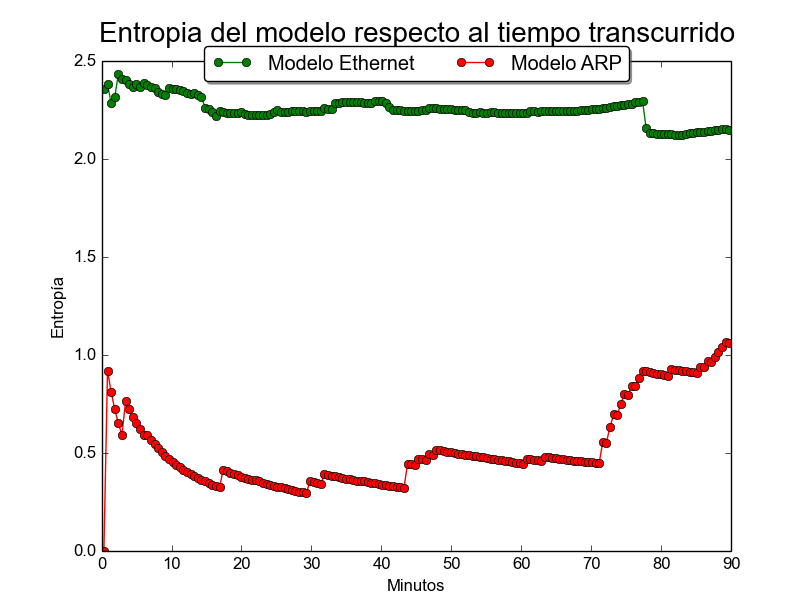
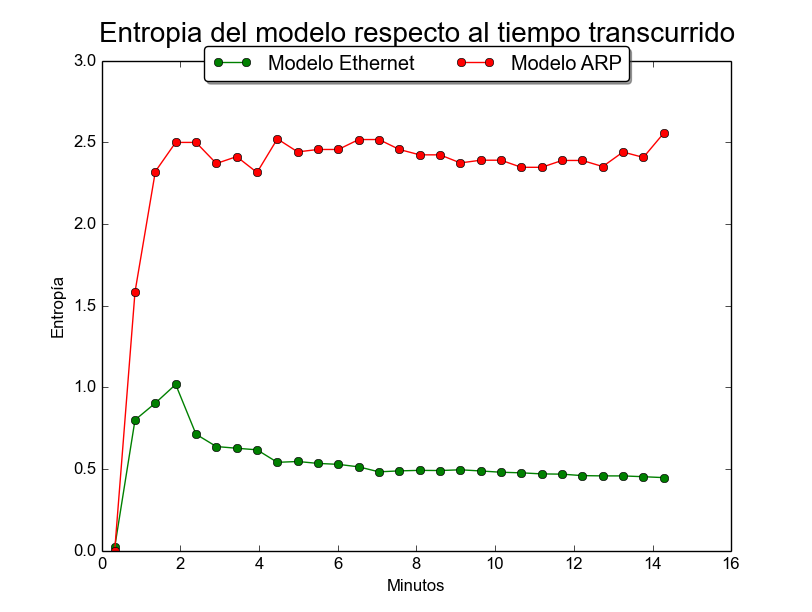
mas cambios

diff --git a/tp1/herramienta/entropyVsTime.py b/tp1/herramienta/entropyVsTime.py
@@ -10,13 +10,19 @@ ax = plt.subplot(111)
 x_seconds = list()
 y_entropyEth = list()
 y_entropyArp = list()
+contador = 10
+
 
 for line in stdin:
 	# segundos_entropíaEthernet_entropíaARP
-	cols = line.strip().split()
-	x_seconds.append(float(cols[0]))
-	y_entropyEth.append(float(cols[1]))
-	y_entropyArp.append(float(cols[2]))
+	if contador == 30:
+		cols = line.strip().split()
+		x_seconds.append(float(cols[0])/60)
+		y_entropyEth.append(float(cols[1]))
+		y_entropyArp.append(float(cols[2]))
+		contador = 0
+	else:
+		contador += 1
 
 figure(1)
 #titulo más arriba
@@ -26,10 +32,12 @@ plt.text(0.5, 1.04, figure_title,
          fontsize=20,
          transform = ax.transAxes)
 
-xlabel(u"Segundos")
+xlabel(u"Minutos")
 ylabel(u"Entropía")
-plot(x_seconds, y_entropyEth, label=u"Modelo Ethernet")
-plot(x_seconds, y_entropyArp, label=u"Modelo ARP")
+#x, y, color='green', linestyle='dashed', marker='o',
+#     markerfacecolor='blue', markersize=12
+plot(x_seconds, y_entropyEth, color='green', marker='o', markerfacecolor='green', markersize=6, label=u"Modelo Ethernet")
+plot(x_seconds, y_entropyArp, color='red', marker='o', markerfacecolor='red', markersize=6, label=u"Modelo ARP")
 
 #Leyenda arriba
 ax.legend(loc='upper center', bbox_to_anchor=(0.5, 1.05),
